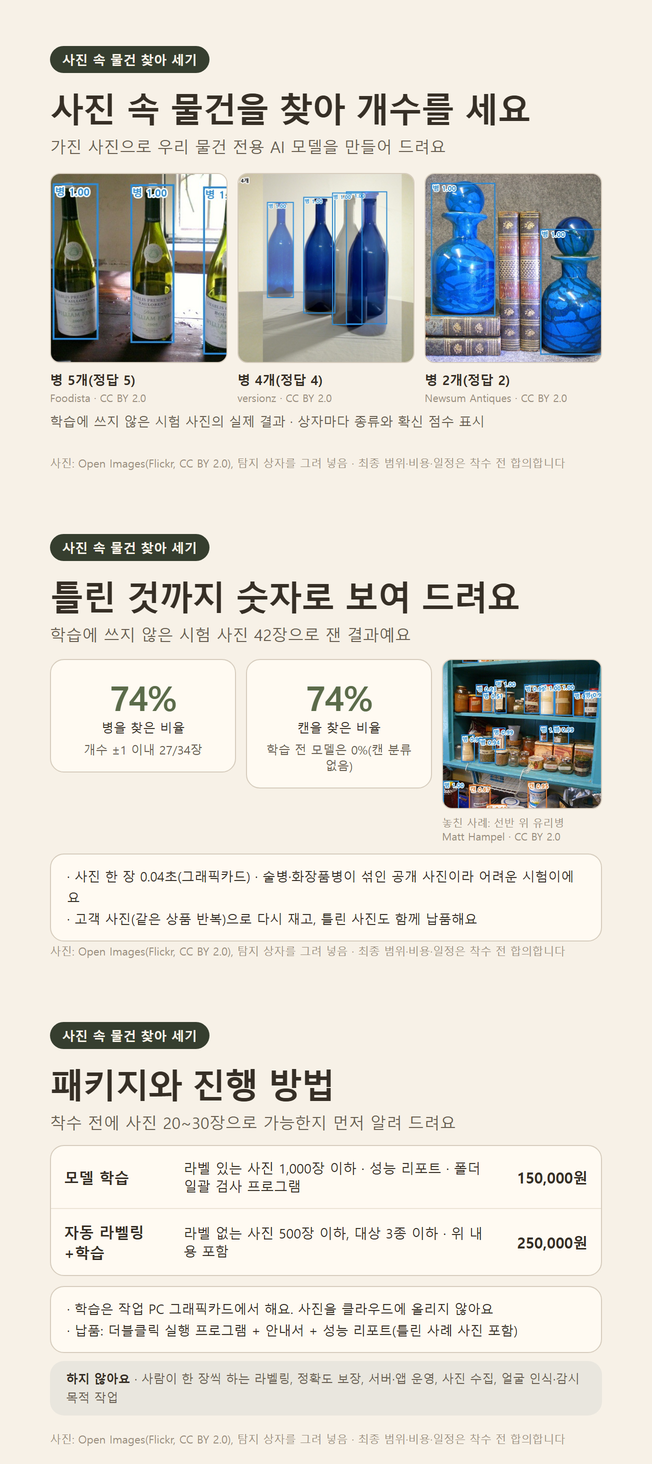
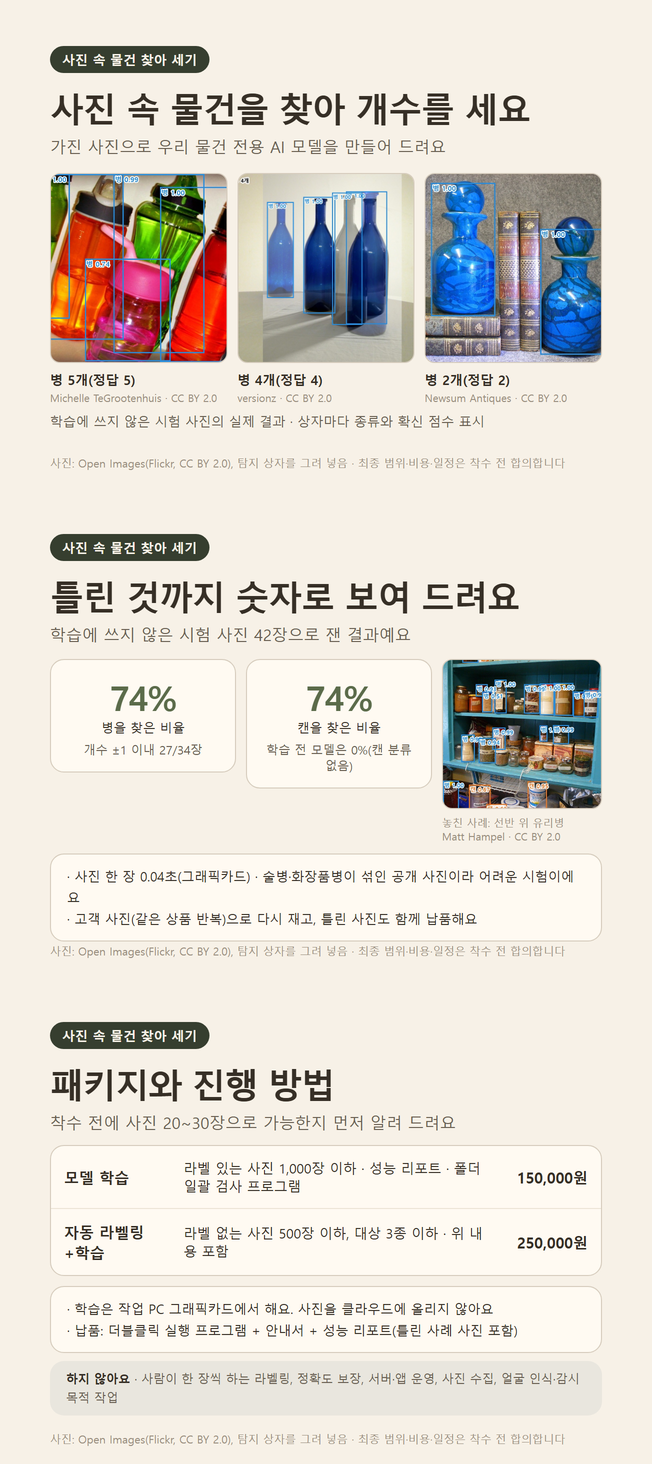
Swap branded wine photo in service C images and draft its Kmong listing

Changed region(s): [[0.0613, 0.0922, 0.3681, 0.2766]]

diff --git a/marketing/kmong/vision-main.html b/marketing/kmong/vision-main.html
@@ -6,4 +6,4 @@ h1{font-size:34px;letter-spacing:-1.2px;margin:14px 0 6px;line-height:1.25}.sub{
 table.box{width:100%;border-collapse:separate;border-spacing:0}table.box td{border-bottom:1px solid #ece4d6}table.box tr:last-child td{border-bottom:0}
 .note{position:absolute;left:50px;bottom:18px;font-size:11px;color:#9a8f80}
 .num{text-align:right;font-variant-numeric:tabular-nums}.ph{border-radius:10px;border:1px solid #d6ccbd;object-fit:cover;width:100%}
-.cap{font-size:10.5px;color:#9a8f80;margin-top:3px;line-height:1.3}.big{font-size:34px;font-weight:800;letter-spacing:-1px;color:#5b6b4a}</style><span class=tag>사진 속 물건 찾아 세기</span><h1>사진 속 물건을 찾아 개수를 세요</h1><p class=sub>가진 사진으로 우리 물건 전용 AI 모델을 만들어 드려요</p><div style="display:grid;grid-template-columns:repeat(3,1fr);gap:10px;margin-top:16px"><div><img class=ph src="file:///C:/Users/xop12/OneDrive/%EB%B0%94%ED%83%95%20%ED%99%94%EB%A9%B4/review-helper/products/vision-demo/openimages/preds/caa44bce1d51cee3.jpg" style="height:190px"><div style="font-size:13px;font-weight:700;margin-top:4px">병 5개(정답 5)</div><div class=cap>Foodista · CC BY 2.0</div></div><div><img class=ph src="file:///C:/Users/xop12/OneDrive/%EB%B0%94%ED%83%95%20%ED%99%94%EB%A9%B4/review-helper/products/vision-demo/openimages/preds/b426e52fccedea01.jpg" style="height:190px"><div style="font-size:13px;font-weight:700;margin-top:4px">병 4개(정답 4)</div><div class=cap>versionz · CC BY 2.0</div></div><div><img class=ph src="file:///C:/Users/xop12/OneDrive/%EB%B0%94%ED%83%95%20%ED%99%94%EB%A9%B4/review-helper/products/vision-demo/openimages/preds/600d910af3cbb842.jpg" style="height:190px"><div style="font-size:13px;font-weight:700;margin-top:4px">병 2개(정답 2)</div><div class=cap>Newsum Antiques · CC BY 2.0</div></div></div><p style="margin-top:8px;font-size:13px;color:#685e51">학습에 쓰지 않은 시험 사진의 실제 결과 · 상자마다 종류와 확신 점수 표시</p><div class=note>사진: Open Images(Flickr, CC BY 2.0), 탐지 상자를 그려 넣음 · 최종 범위·비용·일정은 착수 전 합의합니다</div></html>
+.cap{font-size:10.5px;color:#9a8f80;margin-top:3px;line-height:1.3}.big{font-size:34px;font-weight:800;letter-spacing:-1px;color:#5b6b4a}</style><span class=tag>사진 속 물건 찾아 세기</span><h1>사진 속 물건을 찾아 개수를 세요</h1><p class=sub>가진 사진으로 우리 물건 전용 AI 모델을 만들어 드려요</p><div style="display:grid;grid-template-columns:repeat(3,1fr);gap:10px;margin-top:16px"><div><img class=ph src="file:///C:/Users/xop12/OneDrive/%EB%B0%94%ED%83%95%20%ED%99%94%EB%A9%B4/review-helper/products/vision-demo/openimages/preds/ecda061a268f9065.jpg" style="height:190px"><div style="font-size:13px;font-weight:700;margin-top:4px">병 5개(정답 5)</div><div class=cap>Michelle TeGrootenhuis · CC BY 2.0</div></div><div><img class=ph src="file:///C:/Users/xop12/OneDrive/%EB%B0%94%ED%83%95%20%ED%99%94%EB%A9%B4/review-helper/products/vision-demo/openimages/preds/b426e52fccedea01.jpg" style="height:190px"><div style="font-size:13px;font-weight:700;margin-top:4px">병 4개(정답 4)</div><div class=cap>versionz · CC BY 2.0</div></div><div><img class=ph src="file:///C:/Users/xop12/OneDrive/%EB%B0%94%ED%83%95%20%ED%99%94%EB%A9%B4/review-helper/products/vision-demo/openimages/preds/600d910af3cbb842.jpg" style="height:190px"><div style="font-size:13px;font-weight:700;margin-top:4px">병 2개(정답 2)</div><div class=cap>Newsum Antiques · CC BY 2.0</div></div></div><p style="margin-top:8px;font-size:13px;color:#685e51">학습에 쓰지 않은 시험 사진의 실제 결과 · 상자마다 종류와 확신 점수 표시</p><div class=note>사진: Open Images(Flickr, CC BY 2.0), 탐지 상자를 그려 넣음 · 최종 범위·비용·일정은 착수 전 합의합니다</div></html>

diff --git a/marketing/kmong/render_vision.py b/marketing/kmong/render_vision.py
@@ -20,7 +20,7 @@ PREDS = DEMO / "openimages" / "preds"
 sys.path.insert(0, str(HERE))
 from render_details import CSS, e, shoot, stack  # noqa: E402
 
-GOOD = ["caa44bce1d51cee3", "b426e52fccedea01", "600d910af3cbb842"]  # 개수를 정확히 맞힌 시험 사진(상표가 크게 안 보이는 것)
+GOOD = ["ecda061a268f9065", "b426e52fccedea01", "600d910af3cbb842"]  # 개수를 정확히 맞힌 시험 사진(상표가 크게 안 보이는 것)
 BAD = "92c6701835d2a3ee"  # 놓친 사례: 선반 위 유리병
 TAG = "사진 속 물건 찾아 세기"
 NOTE = "사진: Open Images(Flickr, CC BY 2.0), 탐지 상자를 그려 넣음 · 최종 범위·비용·일정은 착수 전 합의합니다"

diff --git a/MARKETPLACE.md b/MARKETPLACE.md
@@ -146,6 +146,45 @@
 
 **제 판단:** 엑셀·웹보다 단가가 높지만 첫 주문까지 데모와 신뢰가 더 필요합니다. 서비스 A·B 승인과 첫 후기 이후에 등록하고, 그 전에 데모만 만들어 둡니다.
 
+**크몽 등록 초안 (2026-11-01 작성, 미제출)** · 서비스 E 등록 입력값 형식을 따름. 주요 특징 중급/1인/상주 불가
+
+- **제목:** 사진 속 물건 개수 세는 AI 모델 만들어 드립니다 (28자, 30자 제한. 특수문자 없음)
+- **카테고리:** IT·프로그래밍 > 이미지·음성 인식 (#848055와 같은 곳). 대안은 IT·프로그래밍 > 업무 자동화
+- **이미지:** 대표 `marketing/kmong/vision-main-652.png`, 상세 `vision-02.png`·`vision-03.png` (또는 한 장짜리 `vision-detail.png`). 2026-11-01 대표 이미지 첫 사진을 상표가 읽히는 와인병(Chablis) 사진에서 상표 없는 물병 5개 사진(Michelle TeGrootenhuis, CC BY 2.0, 정답 5개 모두 맞힘)으로 바꿈
+- **패키지** (모두 수정 1회, 소스 코드·실행 파일 제공)
+
+| 패키지 | 제목 | 설명 | 가격 | 작업일 |
+| --- | --- | --- | --- | --- |
+| STANDARD | 가능성 진단 | 사진 30장 이하로 공개 모델이 대상을 찾을 수 있는지 시험, 결과 사진과 짧은 리포트, 학습이 필요한지 판단 | 50,000원 | 2일 |
+| DELUXE | 모델 학습 | 라벨 있는 사진 1,000장 이하로 탐지 모델 학습, 성능 리포트(틀린 사례 사진 포함), 폴더 일괄 개수 세기 프로그램 | 150,000원 | 5일 |
+| PREMIUM | 자동 라벨링+학습 | 라벨 없는 사진 500장 이하, 대상 3종 이하. 자동 라벨 → 학습 → 리포트·프로그램 | 250,000원 | 7일 |
+
+- **서비스 설명**
+
+  > 매대 상품, 창고 박스, 불량품처럼 정해진 물건을 사진에서 찾아 세는 일을 매번 눈으로 하고 계신가요? 가지고 계신 사진으로 그 물건 전용 AI 모델을 학습해, 폴더 속 사진을 한 번에 세는 프로그램으로 납품합니다.
+  >
+  > **더블클릭으로 씁니다.** 사진을 폴더에 넣고 프로그램을 실행하면 사진별 개수가 담긴 엑셀과, 찾은 물건마다 상자를 그린 사진이 나옵니다. 그래픽카드 없는 PC에서도 사진 한 장에 약 1초입니다. 인터넷 연결이 필요 없습니다.
+  >
+  > **사진을 밖으로 보내지 않습니다.** 학습은 작업 PC의 그래픽카드에서 하고 클라우드에 올리지 않습니다. 받은 사진은 납품·검수 후 약속한 날짜에 지웁니다.
+  >
+  > **틀린 것까지 숫자로 보여 드립니다.** 학습에 쓰지 않은 시험 사진으로만 성능을 재고, 놓친 사례 사진도 함께 드립니다. 공개 사진(술병·화장품병이 섞인 캔·병 사진)으로 만든 예시 모델은 처음 보는 시험 사진 42장에서 병의 74%, 캔의 74%를 찾았고, 병이 있는 사진 34장 중 27장은 개수가 ±1개 이내였습니다. 같은 상품이 반복되는 실제 매대 사진은 결과가 다를 수 있어 주문 전에 사진 20~30장으로 먼저 확인합니다.
+  >
+  > **애매한 것은 따로 표시합니다.** 확신이 낮은 물건은 개수에 넣지 않고 회색 상자와 엑셀 '확인 필요' 칸으로 알려 드립니다.
+  >
+  > **포함하지 않는 것:** 사람이 한 장씩 하는 수작업 라벨링, 정확도 보장, 서버·앱 배포와 상시 운영, 사진 수집, 특정 개인을 알아보는 얼굴 인식, 몰래 촬영·감시 목적 작업.
+
+- **의뢰인 준비사항:** 대상 물건이 찍힌 사진 20~30장(진단용), 세고 싶은 물건 종류와 이름, 라벨이 있으면 라벨 파일(형식 상관없음). 사진 속 얼굴·차량 번호판은 대상이 아니면 가려서 보내 주세요. 사진 사용 권리가 의뢰인에게 있어야 합니다.
+- **수정 및 재진행 안내:** 수정 1회는 기준 점수 조정, 엑셀 열 구성, 표시 방식 변경. 학습 후 고객이 새 사진을 추가해 다시 학습하거나 대상 종류를 늘리는 것은 별도 견적.
+- **검색 키워드 (5개):** 객체 탐지, 이미지 인식, 개수 세기, 비전 AI, 재고 사진
+- **자주 묻는 질문**
+  - Q. 정확도는 얼마나 되나요? → 물건과 사진 상태에 따라 크게 다릅니다. 주문 전에 사진 20~30장으로 가능성을 확인하고, 시험 사진 결과를 숫자와 틀린 사례로 보여 드립니다.
+  - Q. 그래픽카드가 없어도 되나요? → 납품 프로그램은 일반 PC(CPU)에서 사진 한 장에 약 1초로 돌아갑니다.
+  - Q. 사진이 외부로 나가나요? → 학습과 검사 모두 작업 PC와 고객 PC 안에서만 합니다. 납품·검수 후 약속한 날짜에 삭제합니다.
+- **등록 전 할 일:**
+  - PREMIUM의 자동 라벨링(글자로 대상을 지정하는 공개 모델)은 아직 시험하지 않음. 캔·병 사진으로 자동 라벨 → 학습을 한 번 해 보고 정확도·시간을 적은 뒤 등록하거나, 그 전에는 PREMIUM을 빼고 STANDARD·DELUXE 두 개로 등록
+  - 크몽 금지 표현 확인(정확도 보장·1위 등), 서비스 A·B·D·E 승인 결과를 보고 등록 시점 결정
+  - 납품 exe(`물건세기.zip`)를 다른 PC(그래픽카드 없는 노트북 등)에서 한 번 실행해 보기
+
 ## 서비스 D · 인터넷 없이 돌아가는 로컬 LLM 프로그램 (2026-11-01 심사 제출, #852228)
 
 **제목 초안:** 회사 자료 밖으로 안 나가는 사내 AI 비서 만들어 드립니다
@@ -369,7 +408,7 @@
 - [x] 서비스 D 데모: 로컬 LLM 사내 규정 Q&A (2026-11-01 완료. 7/7 통과, exe 납품 패키지 점검, 크몽 #852228 제출. 다른 PC 설치 시험은 [`products/local-llm-demo/README.md`](products/local-llm-demo/README.md)의 '아직 확인하지 못한 것'에 남음)
 - [x] 서비스 C 데모용 사진 확보 (2026-11-01 직접 촬영 대신 Open Images CC BY 2.0 캔·병 사진 213장과 상자 라벨, 출처 목록 `products/vision-demo/ATTRIBUTION.md`. 매대 직접 촬영은 실제 매대 데모가 필요할 때로 미룸)
 - [x] 서비스 C 학습 (2026-11-01): 회전 정보가 있는 4장을 뺀 209장을 학습 167 / 시험 42로 나눠 torchvision Faster R-CNN ResNet50-FPN v2(코드 BSD-3, COCO 가중치에서 시작)를 RTX 4070 Ti에서 24회 학습(4.5분, 사진 긴 변 800px, 그래픽 메모리 1.7GB). 시험 사진 결과: 병 찾은 비율 74%·맞힌 비율 68%, 캔 찾은 비율 74%·맞힌 비율 40%, 병 개수 ±1 이내 27/34장, 사진 한 장 0.04초. 학습 전 COCO 모델은 병 78%/53%, 캔은 분류가 없어 0%. Open Images 라벨이 모든 병·캔을 표시하지 않아(선반 위 유리병 등) 실제로 맞힌 상자도 '틀림'으로 세어진 경우가 있어 정밀도는 낮게 나옴. 결과 `products/vision-demo/results/정확도.md`, 홍보 이미지 3장 `marketing/kmong/render_vision.py` → `vision-main.png`·`vision-02.png`·`vision-03.png`(사진 작성자·CC BY 2.0 표기, 상표가 크게 안 보이는 시험 사진만 사용). 처음 학습은 1024px·4장 묶음으로 그래픽 메모리 11GB를 넘겨 매우 느려지고 PC 메모리 부족으로 중단됨 → 800px·2장 묶음·반정밀도로 해결
-- [ ] 서비스 C 크몽 등록 전: 와인병 사진의 상표 글자(작게 보임)가 괜찮은지 확인, 실제 고객형 데모(같은 상품 반복 매대 사진)는 직접 촬영 시 다시
+- [x] 서비스 C 크몽 등록 전: 와인병 사진 상표 확인 → 상표가 읽혀 상표 없는 물병 사진으로 교체(2026-11-01), 등록 초안 작성(서비스 C 항목). 남은 것: 자동 라벨링 시험 또는 PREMIUM 빼기, 다른 PC에서 exe 실행. 실제 고객형 데모(같은 상품 반복 매대 사진)는 직접 촬영 시 다시
 - [ ] 서비스 D 월 관리 옵션: ~~고객용 확인 질문 결과표 화면~~(2026-11-01 완료), 크몽 서비스 D 상세에 "납품 후 월 관리 신청 가능" 추가 남음
 - [x] 서비스 C 학습·검사 코드를 로컬 그래픽카드 기준으로 준비하고 exe 납품 패키지 구성 (2026-11-01: `물건세기.exe`, ONNX로 바꿔 그래픽카드 없이 CPU 장당 약 1초, 사진넣기 폴더 → 개수.xlsx·상자 그린 사진, zip 193MB. [`products/vision-demo/README.md`](products/vision-demo/README.md))
 - [ ] 서비스 E 데모: 가상 거래명세서·영수증 20장 제작 → 인쇄·촬영 → 로컬 OCR로 엑셀 변환 → 칸 단위 정확도 기록 (2026-11-01 문서 20장·정답지 제작, 합성 사진으로 변환·채점 완료: 처음 보는 세트2에서 칸 95.9%, 19/20장 완전 정답, 장당 8초(CPU). 크몽 이미지 5장 제작(`marketing/kmong/render_ocr.py` → `ocr-main.png`·`ocr-main-652.png`·`ocr-02~05.png`·`ocr-detail.png`, 표·숫자는 세트2 실제 결과). 남은 것: 실제 휴대폰 촬영 20장으로 재측정 후 이미지 숫자 갱신, 크몽 등록. [`products/receipt-ocr-demo/README.md`](products/receipt-ocr-demo/README.md))
